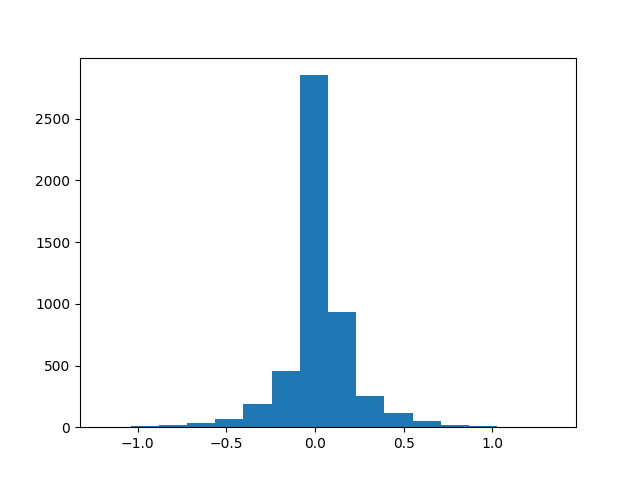
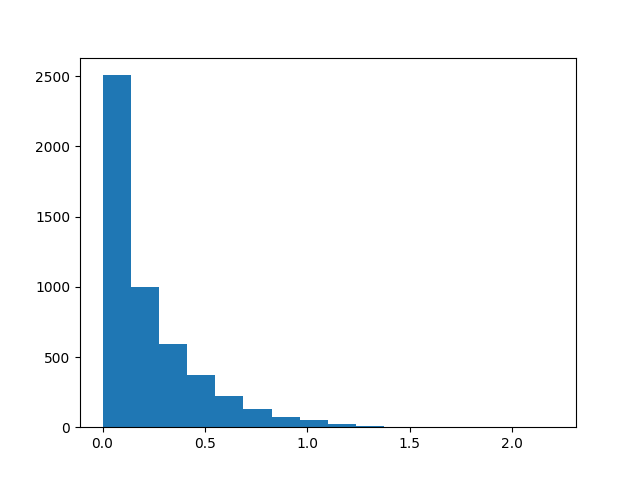
Add: homework 2: problem 2.2: Change sentiment estimator

diff --git a/students/OleksandrPetrov/02-structural-linguistics/2.2.headlines.py b/students/OleksandrPetrov/02-structural-linguistics/2.2.headlines.py
@@ -70,9 +70,11 @@ def analyze_headline(doc):
 
     def aggregate_sentiments(sentiments):
         result = 0
-        for s in sentiments:
-            pos, __, neg = s
-            result += (pos - neg)
+        for pos, obj, neg in sentiments:
+            # a) pos + obj + neg == 1
+            # b) we are interested only in degree in of emotion
+            # c) more emotional words => more emotional degree => let it be additive
+            result += pos + neg
         return result
 
     sentiment = aggregate_sentiments(sentiments)
@@ -99,7 +101,7 @@ def superlativeness_classifier(v):
 
 
 def sentiment_classifier(v):
-    return abs(v) >= 0.3  # some rather arbitrary estimation from histogram
+    return v >= 0.5  # some rather arbitrary estimation from histogram
 
 
 def process_samples(nlp, samples):
